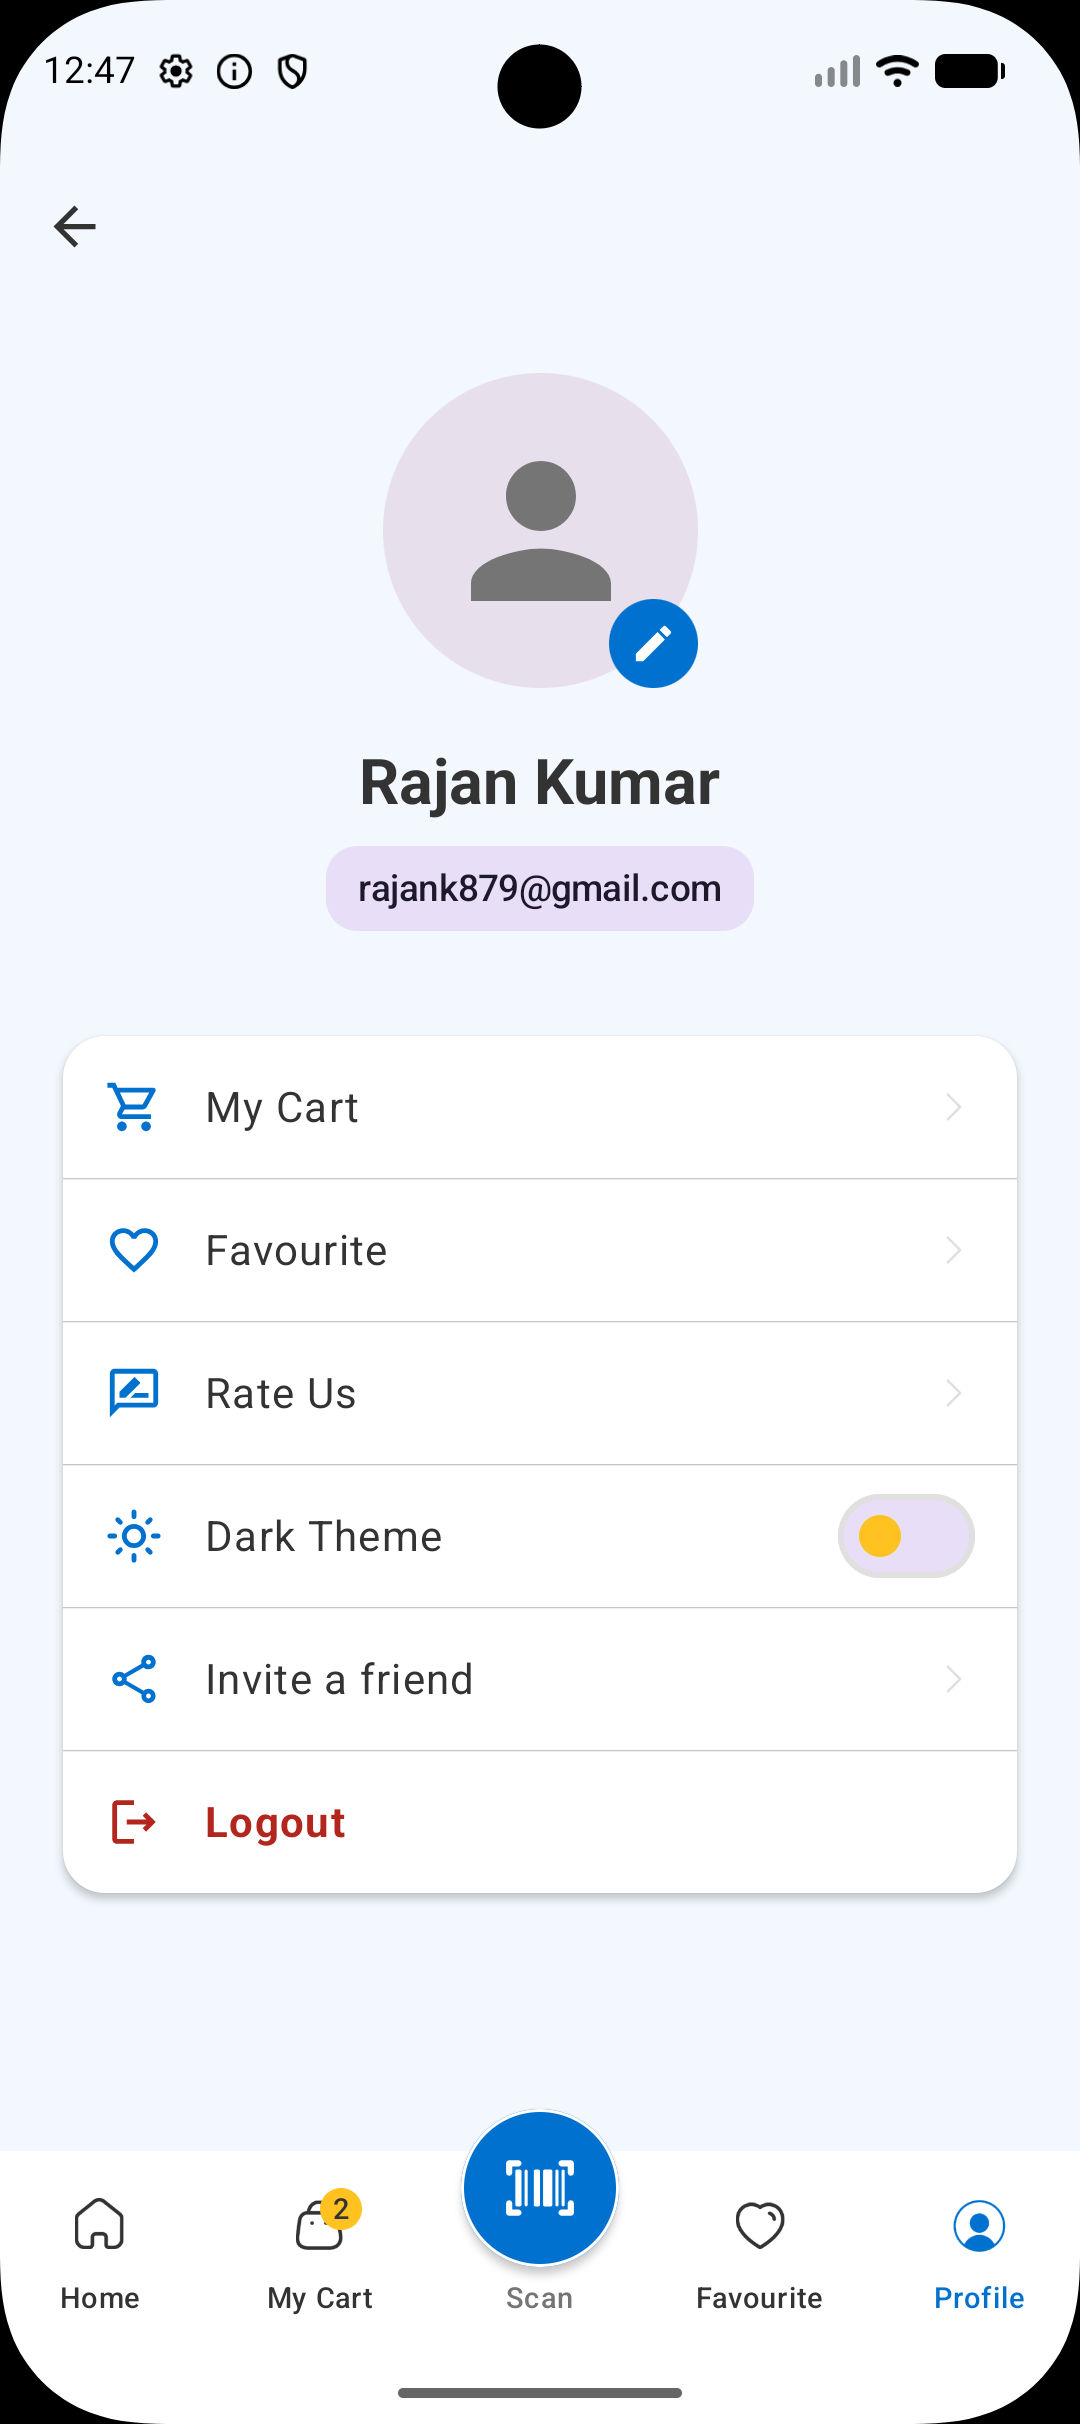
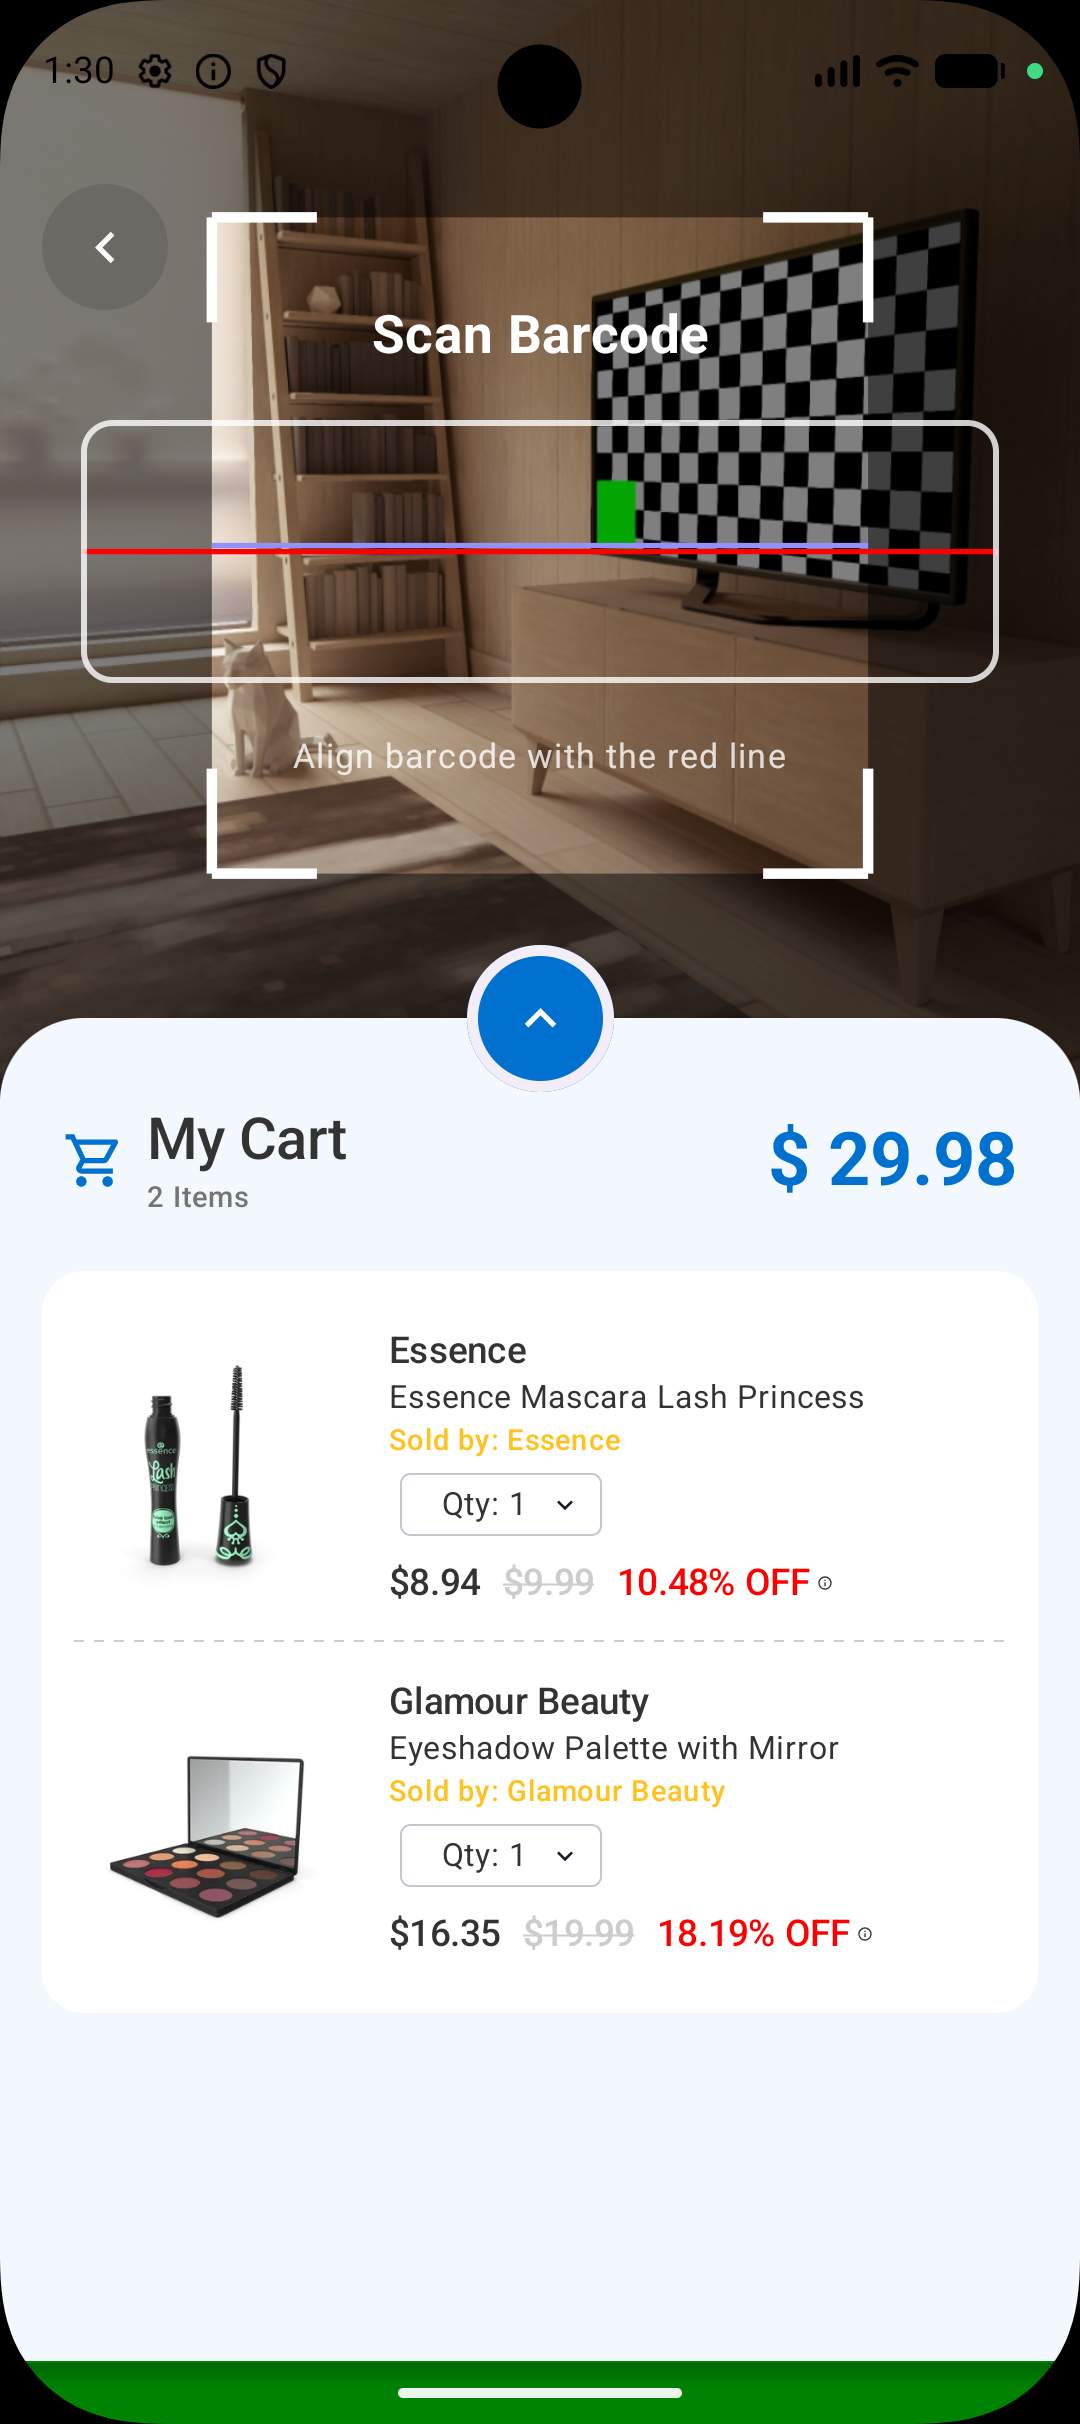
update read.md file

diff --git a/README.md b/README.md
@@ -8,9 +8,9 @@ A professional, high-performance e-commerce application built with **Kotlin** an
 ## 📸 App Walkthrough
 
 ### 🏠 Core Screens
-| Home Screen | My Cart | Wishlist | User Profile |
-|:---:|:---:|:---:|:---:|
-| ![Home](screenshots/home.png) | ![Cart](screenshots/cart.png) | ![Wishlist](screenshots/wishlist.png) | ![Profile](screenshots/profile.png) |
+|             Home Screen              | My Cart | Wishlist | User Profile |
+|:------------------------------------:|:---:|:---:|:---:|
+| ![Home](screenshots/home_screen.png) | ![Cart](screenshots/cart.png) | ![Wishlist](screenshots/wishlist.png) | ![Profile](screenshots/profile.png) |
 
 ### 🔍 Discovery & Search
 | Barcode Scanner | Search Suggestions | Search Results (PLP) | Product Details (PDP) |
@@ -18,9 +18,9 @@ A professional, high-performance e-commerce application built with **Kotlin** an
 | ![Scanner](screenshots/scanner.png) | ![Suggestions](screenshots/search_suggestions.png) | ![PLP](screenshots/plp.png) | ![PDP](screenshots/pdp.png) |
 
 ### 💳 Checkout Flow
-| Step 1: Review Cart | Step 2: Location Picker | Step 3: Add Address |           Step 4: Payment Options           |
-|:---:|:---:|:---:|:-------------------------------------------:|
-| ![Checkout Cart](screenshots/cart.png) | ![Map](screenshots/map.png) | ![Address](screenshots/address.png) | ![Payment Methods](screenshots/payment.png) |
+| Step 1: Review Cart |   Step 2: Location Picker    | Step 3: Add Address |           Step 4: Payment Options           |
+|:---:|:----------------------------:|:---:|:-------------------------------------------:|
+| ![Checkout Cart](screenshots/cart.png) | ![Map](screenshots/maps.png) | ![Address](screenshots/address.png) | ![Payment Methods](screenshots/payment.png) |
 
 | Step 5: Card Entry | Step 6: Process / OTP | Step 7: Success |
 |:---:|:---:|:---:|
